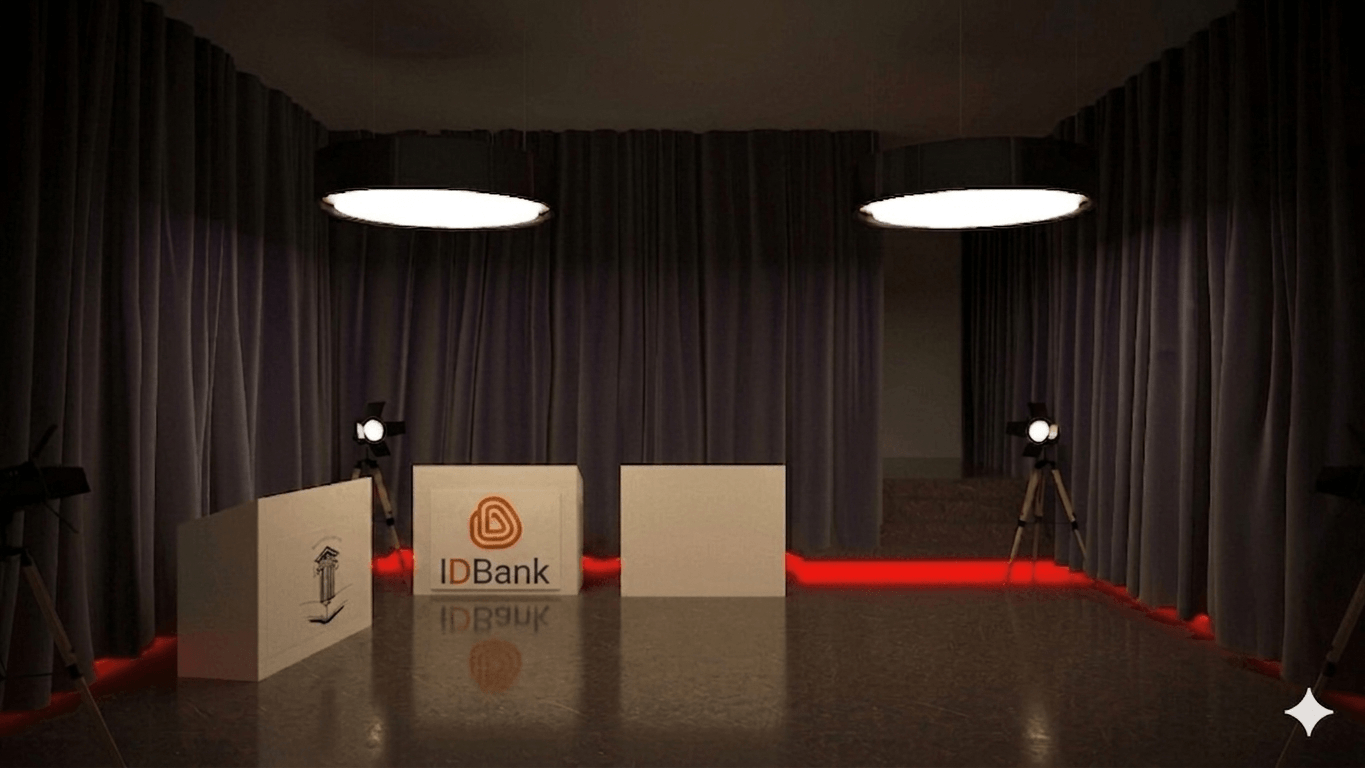
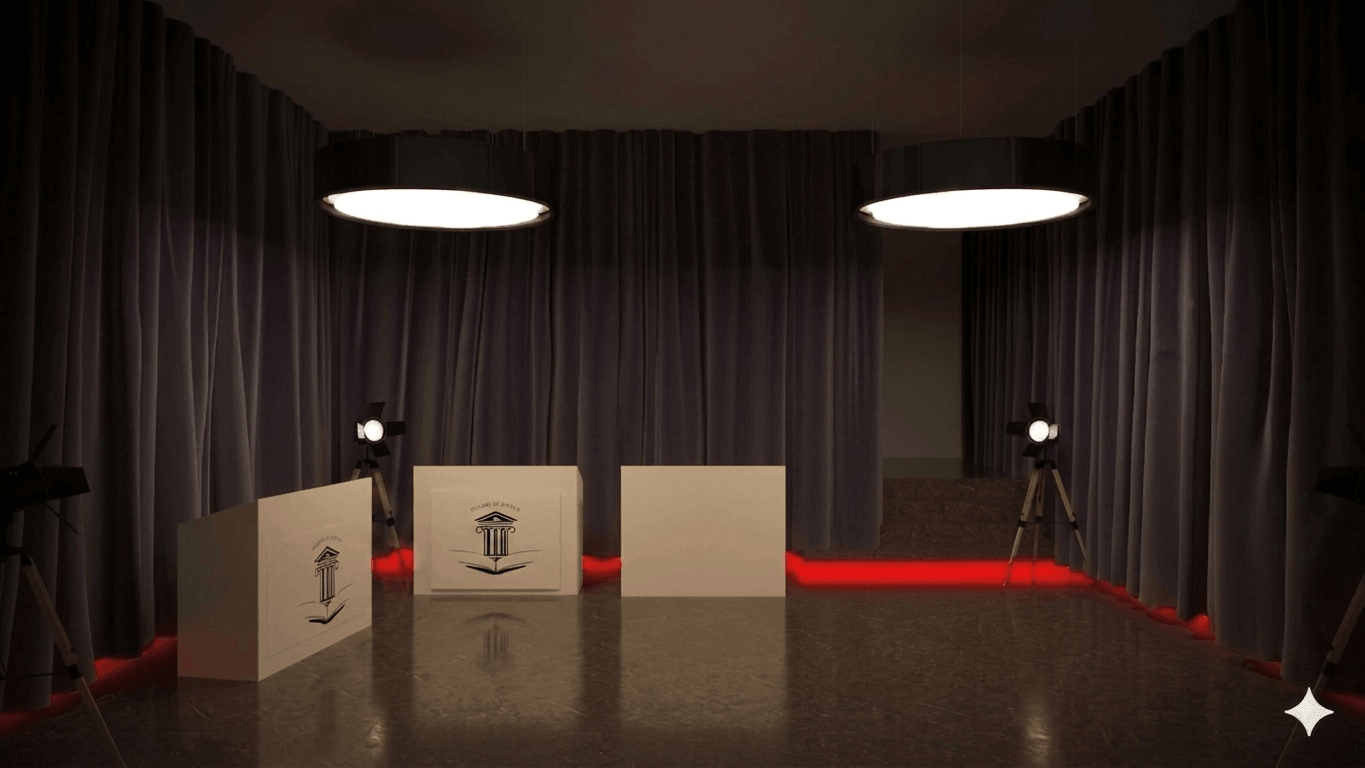
Update images and remove ID Bank section from index.html

diff --git a/src/index.html b/src/index.html
@@ -334,302 +334,6 @@
                     </div>
                 </div>
             </section>
-
-            <!-- ID Bank -->
-            <section class="id-bank stack-section" id="id-bank" aria-label="ID Bank">
-                <div class="container">
-                    <span class="stack-section__label">ԳՈՐԾԱՐՔԱՅԻՆ ՓԱԹԵԹ «ԱյԴի Բանկ» ՓԲԸ-Ի ՀԱՄԱՐ</span>
-                    <div class="stack-section__inner">
-                        <div class="stack-section__body" data-animate="animate__fadeInUp">
-                            <p class="stack-section__text">
-                                <b>Հարգելի՛ «ԱյԴի Բանկ» ընկերության ղեկավարություն,</b>
-                            </p>
-                            <p class="stack-section__text">
-                                «Ուսանողական Հարթակ» նախագիծը ստեղծվել է մեկ հստակ նպատակով՝ միավորել Հայաստանի ակտիվ,
-                                մտածող և նախաձեռնող ուսանողներին
-                                մեկ հարթակում։ Սակայն նախագիծը իրենից ներկայացնում է ավելին, քան պարզապես ինտելեկտուալ և
-                                ժամանցային ծրագիր․ այն միջավայր
-                                է, որտեղ ձևավորվում են երիտասարդների ապագա սովորությունները, նախասիրությունները և
-                                ֆինանսական վարքագիծը։
-                            </p>
-                            <p class="stack-section__text">
-                                <u>Սա պարզապես գովազդային հարթակ չէ։ Սա ուղիղ և երկարաժամկետ շփում է</u> Հայաստանի
-                                ամենաակտիվ երիտասարդ լսարանի՝ 18–25 տարեկան ուսանողների հետ, ովքեր արդեն այսօր ձևավորում
-                                են իրենց ֆինանսական
-                                վարքագիծը, օգտագործում թվային ծառայություններ, կատարում առցանց վճարումներ և ընտրում
-                                իրենց առաջին բանկային գործընկերոջը։
-                            </p>
-                            <p class="stack-section__text">
-                                Ծրագրի կառուցվածքը հնարավորություն է տալիս ոչ միայն ներկայացնել «ԱյԴի Բանկ»-ը, այլ
-                                ստեղծել իրական կապ ուսանողների և
-                                բանկի միջև։ Մասնակիցների ակտիվ ներգրավվածությունը, խաղերի ընթացքում և հատկապես
-                                արտամրցույթային հատվածներում ձևավորվող
-                                երկարատև շփումները ստեղծում են այն միջավայրը, որտեղ ուսանողը ոչ թե պարզապես տեսնում է
-                                բանկի բրենդը, այլ սկսում է օգտվել
-                                նրա ծառայություններից։
-                            </p>
-                            <p class="stack-section__text">
-                                <b>Համագործակցության առաջարկ</b>
-                            </p>
-                            <p class="stack-section__text">
-                                Մենք առաջարկում ենք «ԱյԴի Բանկ»-ին դառնալ նախագծի գլխավոր ֆինանսական հովանավորը՝ ոչ
-                                միայն ստանալով բարձր
-                                տեսանելիություն, այլ նաև անմիջապես ներգրավելով նոր երիտասարդ հաճախորդներ ծրագրի
-                                շրջանակում ձևավորվող ուսանողական
-                                համայնքից։
-                            </p>
-                            <p class="stack-section__text">
-                                <b>Համագործակցության շրջանակում՝</b>
-                            </p>
-                            <ul class="stack-section__list">
-                                <li class="stack-section__text">
-                                    Կմշակվի հատուկ «ID Student» ուսանողական փաթեթ՝
-                                    նախատեսված ուսանողների առօրյա ֆինանսական կարիքների համար
-                                </li>
-                                <li class="stack-section__text">
-                                    Ուսանողներին կառաջարկվեն պարզ և շահավետ բանկային գործիքներ՝ քարտեր, cashback
-                                    համակարգեր, ուսանողական բոնուսներ և թվային
-                                    ծառայություններ
-                                </li>
-                                <li class="stack-section__text">
-                                    «ԱյԴի Բանկ»-ի ծառայությունները կներկայացվեն ոչ թե դասական գովազդի, այլ անմիջական
-                                    շփման և իրական փորձառության միջոցով
-                                </li>
-                                <li class="stack-section__text">
-                                    Միջոցառման վայրում կստեղծվի «ԱյԴի Բանկ» բրենդավորված տաղավար, որտեղ ուսանողները
-                                    կկարողանան տեղում ծանոթանալ
-                                    ծառայություններին և դառնալ նոր քարտապաններ
-                                </li>
-                                <li class="stack-section__text">
-                                    Լավագույն մասնակիցների դրամական մրցանակները կարող են տրամադրվել «ԱյԴի Բանկ»-ի
-                                    կողմից՝ ձևավորելով ուսանողների առաջին
-                                    անմիջական կապը բանկի հետ
-                                </li>
-                                <li class="stack-section__text">
-                                    Կապահովվի բանկի լիարժեք ներկայությունը խաղասրահներում, մեդիա բովանդակությունում և
-                                    YouTube հաղորդումներում
-                                </li>
-                                <li class="stack-section__text">
-                                    Ուսանող-բրենդ անմիջական շփումները կվերածվեն երկարաժամկետ վստահության և ապագա
-                                    հաճախորդների ձևավորման հիմքի
-                                </li>
-                            </ul>
-                            <p class="stack-section__text">
-                                Ուսանողական տարիներին ձևավորվող ֆինանսական սովորությունները հաճախ դառնում են
-                                երկարաժամկետ։ Եթե երիտասարդի առաջին
-                                բանկային փորձառությունը կապվի «ԱյԴի Բանկ»-ի հետ, մեծ է հավանականությունը, որ նա իր
-                                հետագա ֆինանսական գործառնությունները
-                                կիրականացնի հենց Ձեր հարթակների միջոցով։
-                            </p>
-                            <p class="stack-section__text">
-                                Սա պարզապես հովանավորություն չէ։
-                            </p>
-                            <p class="stack-section__text">
-                                Սա համակարգ է, որտեղ ուսանողները ոչ թե պարզապես տեսնում են «ԱյԴի Բանկ»-ը, այլ սկսում են
-                                օգտագործել այն՝ ձևավորելով
-                                վստահություն և երկարաժամկետ կապ բանկի հետ։
-                            </p>
-                            <p class="stack-section__text">
-                                Մեր նպատակը պարզ է՝ ստեղծել ոչ միայն միջոցառում, այլ իրական
-                                միջավայր, որտեղ ձևավորվում են ապագա հաճախորդները։
-                            </p>
-                            <p class="stack-section__text">
-                                Եթե ուսանողը իր առաջին ֆինանսական փորձառությունը կապում է «ԱյԴի Բանկ»-ի հետ, նա մեծ
-                                հավանականությամբ տարիներ շարունակ
-                                կմնա Ձեր հաճախորդը։
-                            </p>
-                            <p class="stack-section__text text-2xl">
-                                <b>Եկեք միասին ստեղծենք այդ միջավայրը։</b>
-                            </p>
-                        </div>
-                    </div>
-                </div>
-            </section>
-
-            <!-- ── Package 1 ─────────────────────────────── -->
-            <section class="package-1 stack-section" id="package-1" aria-label="Package 1">
-                <div class="container">
-                    <span class="stack-section__label">ՓԱԹԵԹ 1 — ԳԼԽԱՎՈՐ ՖԻՆԱՆՍԱԿԱՆ ՀՈՎԱՆԱՎՈՐ</span>
-                    <div class="stack-section__inner">
-                        <div class="stack-section__body" data-animate="animate__fadeInUp">
-                            <p class="stack-section__text">
-                                «ԱյԴի Բանկ» × «Ուսանողական Հարթակ»
-                            </p>
-                            <p class="stack-section__text">
-                                <b>Փաթեթում ներառված է՝</b>
-                            </p>
-                            <ul class="stack-section__list">
-                                <li class="stack-section__text">
-                                    «ԱյԴի Բանկ»-ի ներկայացում որպես նախագծի գլխավոր ֆինանսական գործընկեր
-                                </li>
-                                <li class="stack-section__text">
-                                    1000+ ուսանողի անմիջական ներգրավվածություն
-                                </li>
-                                <li class="stack-section__text">
-                                    546 խաղերի ընթացքում բրենդի շարունակական ներկայություն
-                                </li>
-                                <li class="stack-section__text">
-                                    «ԱյԴի Բանկ» բրենդավորված տաղավար միջոցառման վայրում
-                                </li>
-                                <li class="stack-section__text">
-                                    «ID Student» հատուկ ուսանողական փաթեթի ներկայացում
-                                </li>
-                                <li class="stack-section__text">
-                                    Խաղասրահների և ընդհանուր տարածքի բրենդավորում
-                                </li>
-                                <li class="stack-section__text">
-                                    Ուսանողների հետ անմիջական շփում և ծառայությունների ներկայացում
-                                </li>
-                                <li class="stack-section__text">
-                                    Դրամական մրցանակների և ուսանողական բոնուսների տրամադրում
-                                </li>
-                                <li class="stack-section__text">
-                                    Վերջին 12 խաղերի հրապարակում և ցուցադրություն մեր YouTube էջում
-                                </li>
-                                <li class="stack-section__text">
-                                    20+ Podcast / հարցազրույցային հաղորդումներ YouTube-ում
-                                </li>
-                                <li class="stack-section__text">
-                                    Ուսխորհուրդների սոցիալական էջերով տարածում
-                                </li>
-                                <li class="stack-section__text">
-                                    «ԱյԴի Բանկ»-ի ինտեգրում բոլոր գովազդային նյութերում
-                                </li>
-                                <li class="stack-section__text">
-                                    Հովանավորի առաջնային հիշատակում բոլոր հաղորդումներում
-                                </li>
-                                <li class="stack-section__text">
-                                    Լոգոյի տեղադրում ամբողջ մեդիա բովանդակությունում
-                                </li>
-                                <li class="stack-section__text">
-                                    Երիտասարդ լսարանի շրջանում վստահության և loyalty-ի ձևավորում
-                                </li>
-                                <li class="stack-section__text">
-                                    Երկարաժամկետ նոր հաճախորդների ներգրավման հնարավորություն
-                                </li>
-                            </ul>
-                            <p class="stack-section__text">
-                                <b>Առաջարկի հիմնական գաղափարը</b>
-                            </p>
-                            <p class="stack-section__text">
-                                Սա պարզապես բրենդային ներկայություն չէ։
-                            </p>
-                            <p class="stack-section__text">
-                                Սա ուսանողական միջավայրում նոր քարտապանների, թվային օգտատերերի և երկարաժամկետ
-                                հաճախորդների ձևավորման համակարգ է։
-                            </p>
-                            <p class="stack-section__text">
-                                <b>Առաջարկվող արժեք՝ 7.500.000 դրամ</b>
-                            </p>
-                            <p class="stack-section__text">
-                                Մենք առաջարկում ենք առանձին ռազմավարական գործընկերություն՝ տարածքի և միջավայրի մասով,
-                                որը ներառում է խաղերի անցկացման
-                                վայրի վարձակալություն, ձևավորում և կահավորում։
-                            </p>
-                            <p class="stack-section__text">
-                                Այս գործընկերության դեպքում ընդհանուր հովանավորության փաթեթը վերաձևավորվում է և նվազում
-                                է 5.000.000 դրամով՝ պահպանելով
-                                ամբողջ բրենդային և մեդիա արժեքը։
-                            </p>
-                            <p class="stack-section__text">
-                                <b>Առաջարկվող արժեք՝ 2.500.000 դրամ</b>
-                            </p>
-                            <p class="stack-section__text">
-                                Արժեքի մեջ ներառված չեն հովանավորի կողմից ուսանողներին տրամադրվող դրամական մրցանակները,
-                                նվերները և լրացուցիչ բոնուսային
-                                առաջարկները։
-                            </p>
-                        </div>
-                    </div>
-                </div>
-            </section>
-
-            <!-- ── Package 2 ─────────────────────────────── -->
-            <section class="package-2 stack-section" id="package-2" aria-label="Package 2">
-                <div class="container">
-                    <span class="stack-section__label">ՓԱԹԵԹ 2 — ԳԼԽԱՎՈՐ ՖԻՆԱՆՍԱԿԱՆ ՀՈՎԱՆԱՎՈՐ</span>
-                    <div class="stack-section__inner">
-                        <div class="stack-section__body" data-animate="animate__fadeInUp">
-                            <p class="stack-section__text">
-                                «ԱյԴի Բանկ» × «Ուսանողական Հարթակ»
-                            </p>
-                            <p class="stack-section__text">
-                                <b>Փաթեթում ներառված է՝</b>
-                            </p>
-                            <ul class="stack-section__list">
-                                <li class="stack-section__text">Փաթեթ 1-ի բոլոր հնարավորությունները</li>
-                                <li class="stack-section__text">Evening Party եզրափակիչ ձևաչափ պրոֆեսիոնալ լայնամասշտաբ
-                                    նկարահանմամբ</li>
-                                <li class="stack-section__text">200+ հյուր և ուսանող եզրափակիչ միջոցառմանը</li>
-                                <li class="stack-section__text">Live broadcast մեծ էկրաններով</li>
-                                <li class="stack-section__text">DJ / hosts / entertainment ծրագիր</li>
-                                <li class="stack-section__text">«ԱյԴի Բանկ» VIP zone</li>
-                                <li class="stack-section__text">Բրենդի ինտեգրում ամբողջ evening party-ի ընթացքում</li>
-                                <li class="stack-section__text">Պրոֆեսիոնալ promo video-ներ</li>
-                                <li class="stack-section__text">Մեծ սոցիալական և մեդիա լուսաբանում</li>
-                                <li class="stack-section__text">Ուսանողական շուկայում ուժեղ դիրքավորում</li>
-                                <li class="stack-section__text">Բարձր engagement և loyalty formation</li>
-                                <li class="stack-section__text">«ԱյԴի Բանկ»-ի ծառայությունների անմիջական ներկայացման և
-                                    նոր քարտապանների ներգրավման
-                                    հնարավորություն</li>
-                                <li class="stack-section__text">Երիտասարդ լսարանի շրջանում բարձր վստահության ձևավորում
-                                </li>
-                            </ul>
-                            <p class="stack-section__text">
-                                <b>Առաջարկի հիմնական գաղափարը</b>
-                            </p>
-                            <p class="stack-section__text">
-                                Այս համագործակցությունը կապահովի լայնածավալ և շոշափելի PR ազդեցություն՝ ամրապնդելով
-                                «ԱյԴի Բանկ»-ի դիրքավորումը
-                                ուսանողական լսարանի շրջանում։
-                            </p>
-                            <p class="stack-section__text">
-                                Նախագիծը կձևավորի բարձր ճանաչելիություն, ակտիվ ներգրավվածություն և երկարաժամկետ կապ
-                                երիտասարդ լսարանի հետ՝ միաժամանակ
-                                ստեղծելով ամուր հիմք, որպեսզի հաջորդ անցկացման ընթացքում նախաձեռնությունը ներգրավի էապես
-                                ավելի մեծ թվով մասնակիցների և
-                                ձեռք բերի ավելի լայն հանրային արձագանք։
-                            </p>
-                            <p class="stack-section__text">
-                                Այս նախագիծը ստեղծում է այնպիսի միջավայր, որտեղ ուսանողները ոչ թե պարզապես տեսնում են
-                                «ԱյԴի Բանկ»-ը, այլ սկսում են
-                                օգտվել ծառայություններից և դառնում երկարաժամկետ հաճախորդներ։
-                            </p>
-                            <p class="stack-section__text">
-                                <b>Առաջարկվող արժեք՝ 10.000.000 դրամ</b>
-                            </p>
-                            <p class="stack-section__text">
-                                Մենք առաջարկում ենք առանձին ռազմավարական գործընկերություն՝ տարածքի և միջավայրի մասով,
-                                որը ներառում է խաղերի անցկացման
-                                վայրի վարձակալություն, ձևավորում և կահավորում։
-                            </p>
-                            <p class="stack-section__text">
-                                Այս գործընկերության դեպքում ընդհանուր հովանավորության փաթեթը վերաձևավորվում է և նվազում
-                                է 5.000.000 դրամով՝ պահպանելով
-                                ամբողջ բրենդային և մեդիա արժեքը։
-                            </p>
-                            <p class="stack-section__text">
-                                <b>Առաջարկվող արժեք՝ 5.000.000 դրամ</b>
-                            </p>
-                            <p class="stack-section__text">
-                                Արժեքի մեջ ներառված չեն հովանավորի կողմից ուսանողներին տրամադրվող դրամական մրցանակները,
-                                նվերները և լրացուցիչ բոնուսային
-                                առաջարկները։
-                            </p>
-                            <p class="stack-section__text">
-                                Հարգանքներով՝ «Ուսանողական Հարթակ» ՍՊԸ
-                            </p>
-                            <p class="stack-section__text">
-                                Email՝ <a href="mailto:usanoghakanhartak@gmail.com">usanoghakanhartak@gmail.com</a>
-                            </p>
-                            <p class="stack-section__text">
-                                Phone number՝ <a href="tel:+37496396466">+374 96 396466</a>
-                            </p>
-                        </div>
-                    </div>
-                </div>
-            </section>
-
         </main>
     </div>
 </body>
